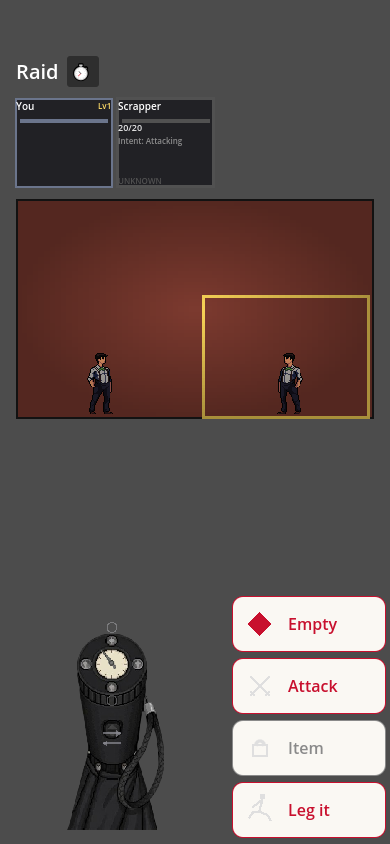
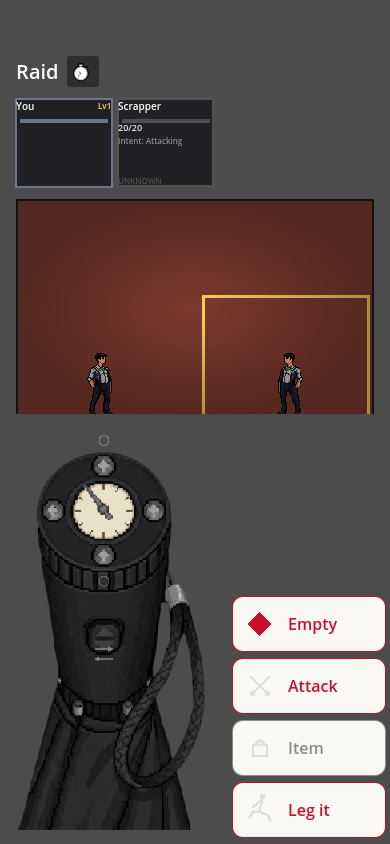
108: crop the Dial's blank native margin to grow the render and free action-deck width
The Dial's 500x500 source PNG is more than half blank transparent margin
(measured via a Pillow alpha-bbox scan: content only spans native
x:[141,377]). Cropping the rendered AtlasTexture to just that content lets
HANDLE_DISPLAY_SIZE grow to 400.0 (device renders ~1.92x its old size) while
the widget's own column width lands back at its pre-ticket 224px, so the
action deck beside it keeps its full original width and captions instead of
being squeezed for room. combat.gd's COMMAND_DOCK_HEIGHT now derives from
DialWidget.WIDGET_SIZE.y instead of a hand-picked flat number, closing the
~215px dead gap between the stage and the Dial down to ~23px with no overlap
(verified via scripts/debug_combat_dial_screenshot.gd's real render).

Claude-Session: https://claude.ai/code/session_01TjiyxV4wG392SCAdhfaZQ3

Changed region(s): [[0.0308, 0.4929, 0.9538, 0.9858]]

diff --git a/CODEMAP.md b/CODEMAP.md
@@ -76,7 +76,7 @@ Generated index of what lives where. Update this alongside any file you add/remo
 
 | File | Renders |
 |---|---|
-| combat.gd | Combat screen (turn UI over systems/combat.gd); stage backdrop reads combat_visuals.json (image or palette.json fallback fill) per combat context; StageSlot idle animation and attack (3 keyposes)/hit (1 pose)/ko (2 poses) one-shots all read combat_visuals.json's per-subject templates.<key> entries (key resolved by CombatScreen.enemy_template_key()/ally contactId/"player"), falling back to the shared templates.default stand-in (Gangsters_2-sourced) when a subject's own entry is empty -- the ticket-01 placeholder box is now a defensive-only fallback, not expected in normal play; attack/hit/ko each play via a transform tween (lunge/recoil/fall+fade) between keyposes, not a flipbook; Archie's self-patch pose and prophetsBreath's ghost-next-pose effect (§5) are wired the same way, both still art-deferred (no default fallback for either). Ticket 11: beats carrying an `effectKey` extra field (systems/combat.gd's use_*()/cast_complication() branches, keyed by consumable id) play combat_visuals.json's `effects.<key>` sheet (art-deferred, empty today) via StageSlot.play_effect_sheet()/set_shield_loop(); art-independent flourishes ride alongside regardless of art status -- StageSlot.spawn_afterimage() (enhancementPowder, per rapid attack beat while motionTurns>0), play_wormhole_vanish() (fold-and-fade transform), set_frozen_visual()/set_time_scale() (timePearl desaturate + 10% idle speed, re-synced from combat.frozenTurns every _sync_stage()), flash_shield_crack() (shieldAbsorbed beat field). EventBus.combat_beats_played/combat_rewind_played bridge the direct bag-item use_*() path (bag_drawer.gd, a global overlay with no direct handoff to this screen) and combat_rewind()'s reverse-beat replay (_on_rewind_beat_played(), a trimmed pose/flash/shake-only playback -- no log-reveal or ghost-drain) back into this screen's own CombatDirector. Ticket 18 (human direction, 2026-09-09): STAGE_HEIGHT shrunk 360→220 to free room for a command-deck furniture row. field-kit-chrome ticket 05: `_build_action_card()`'s Attack/Item/Run blocks drop the default theme Button's amber fill (main_theme.tres -- reserved for calc/cash reads only) for `ui_action_red` (`GameData.PALETTE`, same lookup+fallback pattern as `nav_bar.gd`), a rendering swap only -- no new component, no handler/layout change. ui-chrome-pass ticket 03 (human direction, 2026-09-11, revised repeatedly same day after on-review/screenshot follow-ups -- see `.scratch/ui-chrome-pass/issues/03-combat-dial-bottom-anchored-rework_COMPLETED.md`'s own git history for the discarded intermediate passes): the whole command deck (Dial + Complication card + Attack/Item/Leg it) lives in `_command_dock`, a fixed `HBoxContainer` OUTSIDE `_content`'s ScrollContainer/margin flow entirely -- added as a later sibling of the ScrollContainer in `_ready()` (paints on top, checked first for input; layout Containers here all use `MOUSE_FILTER_PASS`, only leaf controls STOP, so this doesn't block anything in `_content` underneath -- see `_ready()`'s own comment). Anchored to the screen's own bottom-left corner (`COMMAND_DOCK_LEFT_MARGIN`/`RIGHT_MARGIN`/`BOTTOM_MARGIN`/`HEIGHT` consts) rather than `_content`'s 358px margin-inset column, which is what actually lets the Dial render at a real "large prop" size (`dial_widget.gd`'s `HANDLE_DISPLAY_SIZE`) -- sharing that narrower column with the action deck (tried first) capped it as low as 118px. `_build_command_deck()` is now a side-effect-only call (rebuilds `_command_dock` via `_build_dial_and_actions_row()`); `_footer_holder` carries nothing during a live fight. The Complication card docks as the TOP bar of the action stack itself now (`_build_action_deck()`), in the same size/format as Attack/Item/Leg it (`_build_card_bar()`, shared between it and `_build_action_card()`) -- an icon (its own recipe symbol via a `SymbolGlyph`, not a Button, since these ~19 recipe symbols aren't covered by `ThemeDB.fallback_font`) plus a truncated-with-ellipsis "name — tier N" caption (autowrap OFF: wrapping a long recipe name was tried first and blew the stack's own height budget the same way an uncapped caption width blew the row's width budget). The Dial (`SIZE_SHRINK_END`) and the action stack (`SIZE_SHRINK_END`) both bottom-align within `_command_dock` so they share one visual "shelf" at the dock's bottom edge regardless of which is taller that round. Verified against a real (non-headless) render via `scripts/debug_combat_dial_screenshot.gd` at every revision, not just hand-measured; ART-REVIEW still covers the Dial's own screw/switch hit-region consts (dial_widget.gd) and the exact `COMMAND_DOCK_*`/`HANDLE_DISPLAY_SIZE` pixel values. |
+| combat.gd | Combat screen (turn UI over systems/combat.gd); stage backdrop reads combat_visuals.json (image or palette.json fallback fill) per combat context; StageSlot idle animation and attack (3 keyposes)/hit (1 pose)/ko (2 poses) one-shots all read combat_visuals.json's per-subject templates.<key> entries (key resolved by CombatScreen.enemy_template_key()/ally contactId/"player"), falling back to the shared templates.default stand-in (Gangsters_2-sourced) when a subject's own entry is empty -- the ticket-01 placeholder box is now a defensive-only fallback, not expected in normal play; attack/hit/ko each play via a transform tween (lunge/recoil/fall+fade) between keyposes, not a flipbook; Archie's self-patch pose and prophetsBreath's ghost-next-pose effect (§5) are wired the same way, both still art-deferred (no default fallback for either). Ticket 11: beats carrying an `effectKey` extra field (systems/combat.gd's use_*()/cast_complication() branches, keyed by consumable id) play combat_visuals.json's `effects.<key>` sheet (art-deferred, empty today) via StageSlot.play_effect_sheet()/set_shield_loop(); art-independent flourishes ride alongside regardless of art status -- StageSlot.spawn_afterimage() (enhancementPowder, per rapid attack beat while motionTurns>0), play_wormhole_vanish() (fold-and-fade transform), set_frozen_visual()/set_time_scale() (timePearl desaturate + 10% idle speed, re-synced from combat.frozenTurns every _sync_stage()), flash_shield_crack() (shieldAbsorbed beat field). EventBus.combat_beats_played/combat_rewind_played bridge the direct bag-item use_*() path (bag_drawer.gd, a global overlay with no direct handoff to this screen) and combat_rewind()'s reverse-beat replay (_on_rewind_beat_played(), a trimmed pose/flash/shake-only playback -- no log-reveal or ghost-drain) back into this screen's own CombatDirector. Ticket 18 (human direction, 2026-09-09): STAGE_HEIGHT shrunk 360→220 to free room for a command-deck furniture row. field-kit-chrome ticket 05: `_build_action_card()`'s Attack/Item/Run blocks drop the default theme Button's amber fill (main_theme.tres -- reserved for calc/cash reads only) for `ui_action_red` (`GameData.PALETTE`, same lookup+fallback pattern as `nav_bar.gd`), a rendering swap only -- no new component, no handler/layout change. ui-chrome-pass ticket 03 (human direction, 2026-09-11, revised repeatedly same day after on-review/screenshot follow-ups -- see `.scratch/ui-chrome-pass/issues/03-combat-dial-bottom-anchored-rework_COMPLETED.md`'s own git history for the discarded intermediate passes): the whole command deck (Dial + Complication card + Attack/Item/Leg it) lives in `_command_dock`, a fixed `HBoxContainer` OUTSIDE `_content`'s ScrollContainer/margin flow entirely -- added as a later sibling of the ScrollContainer in `_ready()` (paints on top, checked first for input; layout Containers here all use `MOUSE_FILTER_PASS`, only leaf controls STOP, so this doesn't block anything in `_content` underneath -- see `_ready()`'s own comment). Anchored to the screen's own bottom-left corner (`COMMAND_DOCK_LEFT_MARGIN`/`RIGHT_MARGIN`/`BOTTOM_MARGIN`/`HEIGHT` consts) rather than `_content`'s 358px margin-inset column, which is what actually lets the Dial render at a real "large prop" size (`dial_widget.gd`'s `HANDLE_DISPLAY_SIZE`) -- sharing that narrower column with the action deck (tried first) capped it as low as 118px. `_build_command_deck()` is now a side-effect-only call (rebuilds `_command_dock` via `_build_dial_and_actions_row()`); `_footer_holder` carries nothing during a live fight. The Complication card docks as the TOP bar of the action stack itself now (`_build_action_deck()`), in the same size/format as Attack/Item/Leg it (`_build_card_bar()`, shared between it and `_build_action_card()`) -- an icon (its own recipe symbol via a `SymbolGlyph`, not a Button, since these ~19 recipe symbols aren't covered by `ThemeDB.fallback_font`) plus a truncated-with-ellipsis "name — tier N" caption (autowrap OFF: wrapping a long recipe name was tried first and blew the stack's own height budget the same way an uncapped caption width blew the row's width budget). The Dial (`SIZE_SHRINK_END`) and the action stack (`SIZE_SHRINK_END`) both bottom-align within `_command_dock` so they share one visual "shelf" at the dock's bottom edge regardless of which is taller that round. Verified against a real (non-headless) render via `scripts/debug_combat_dial_screenshot.gd` at every revision, not just hand-measured; ART-REVIEW still covers the Dial's own screw/switch hit-region consts (dial_widget.gd) and the exact `COMMAND_DOCK_*`/`HANDLE_DISPLAY_SIZE` pixel values. ticket 108 (2026-09-13): `COMMAND_DOCK_HEIGHT` is now `DialWidget.WIDGET_SIZE.y` (derived, not a hand-picked flat number) -- the old flat value was taller than either column actually needed, and since `_content`'s ScrollContainer reserves `COMMAND_DOCK_HEIGHT + BOTTOM_MARGIN` of screen space regardless of what's drawn in the dock, that slack read on-screen as dead space between the stage and the Dial; deriving it keeps the two in lockstep as `dial_widget.gd`'s sizing changes again. |
 | contacts.gd | Contacts tab, flag-gated actions. 08-family-2-chrome-contacts: paints its own Family 2 "device shell" background panel (`phone_bg_content`) and, once `_refresh()` has built every card, runs `ContactCards.apply_phone_os_chrome(_content)` over the whole thing |
 | event.gd | Generic event-card screen driven by state.event. ui-vision.md §11: recoloured into the shared palette (tension border -> `MapStyle.DANGER_COLOUR`, craft panel -> `calc_gold`/`calc_gold_light`, action bar -> `ui_action_red`, no more private AMBER_COLOR/AMBER_BG/DANGER_COLOR consts); gained a persistent, non-scrolling image slot (`_image_frame`/`_image_texture`) between the top bar and the card stack, derived each `_refresh()` from the last revealed card that specifies an `image` key (sticky, Rewind-safe, no new state). event-images ticket 02: `_ready()` branches on `Events.is_vn_mode()`, decided once and never revisited — VN-mode events build a completely separate full-bleed `_vn_frame`/`_vn_texture`/`_vn_card_box` (full width, `top_bar_clearance()` to the safe-area inset, single overlay text box replaced each refresh with `revealed_cards().back()`, styled via the same `_style_card()` as the non-VN stack) instead of `_image_frame`/`_scroll`/`_cards_box`. event-images ticket 03: the shared bottom action bar (`_action_bar`) is now non-VN-only — it's never built for a VN-mode screen (stays `null`), since Continue/Rewind/choice dock onto the VN card itself via `_build_vn_controls_row()` (Rewind left, a bare "→" arrow glyph right-aligned via a trailing spacer, or the choice buttons in place of the arrow while `Events.is_awaiting_choice()`), appended into the card's own content `VBoxContainer` |
 | factions.gd | Factions tab |
@@ -99,7 +99,7 @@ Generated index of what lives where. Update this alongside any file you add/remo
 | app_tile.gd | Icon+label+badge+lock tile used by the phone app grid. field-kit-chrome ticket 04: no longer shared with the dock — `nav_bar.gd` now builds its own dock-local tile chrome (Family 4's TfL-style strip vs. this component's Family 2 look). 09-family-2-chrome-phone-apps, ui-vision.md §10: the cream/tan frame is gone — a fallback-label tile gets a flat near-black chip (`phone_bg_home`, no border); a tile with real icon art suppresses its own background panel entirely (the art is expected to be a full, self-contained square). Fallback/name label text repainted `phone_text_primary`; badge dot aligned to the exact `ui_action_red` hex |
 | bag_drawer.gd | Global bottom-sheet bag drawer, openable from any screen |
 | contact_cards.gd | Shared Archie/James/faction contact-card builders. 08-family-2-chrome-contacts: also owns `apply_phone_os_chrome(root)`, a recursive repaint pass (card/bubble panel fill, button fill/outline, ProgressBar fill/track, label ink/muted/leave-tinted-alone colour, all via `GameData.PALETTE`'s `phone_os` group) that `contacts.gd` runs over its built screen tree. 09-family-2-chrome-phone-apps: `scenes/screens/phone.gd` reuses the same function over every app it builds (Notes/Factions/Ticker/Profile/Save-Load/Notifications/Reynard's/Harrow's/Messages) — extended this ticket with ProgressBar handling, a message-bubble special case (outgoing `ui_action_red` vs. incoming `phone_bubble_incoming`), and a colour-value (not just has-override) label heuristic so a deliberately tinted label (e.g. a calc_gold £ figure) survives the pass. Deliberately not wired into `build_faction_card()` below, which still serves the untouched (cream) standalone `factions.gd` screen — phone.gd's own `_build_factions()` reaches the same builder through a separately Family-2-painted tree, so this doesn't leak between the two |
-| dial_widget.gd | Combat's in-fight Dial-casting widget, docked left of `scenes/screens/combat.gd`'s action stack inside that screen's `_command_dock` (see that file's own CODEMAP entry). combat-presentation ticket 18: renders the real `assets/hq/dial/dial_device_base.png` umbrella-handle prop (reused verbatim from `hq_dial.gd`'s loadout screen, not separate art), plus a charge-reserve needle. Interaction is direct tap, not the old rotate/press-anywhere gesture: `handle_select(index)` fires when one of the 4 screws ringing the clock face is tapped (one per loaded Complication, `MAX_DOTS`-capped same as `hq_dial.gd`'s flanking sockets), `handle_trigger()` fires only from a dedicated hit-region over the oval switch below the grip (a drawn "⇄" glyph overlaid there, since the art has no icon baked in). Renders whenever the player has a seeded Dial at all (even empty) — CombatScreen only omits the node entirely when there's no Dial. ui-chrome-pass ticket 03 (2026-09-11): `WIDGET_SIZE` (renamed from `VISIBLE_BOX_SIZE`) is now sized to fully contain the rendered art (`HANDLE_DISPLAY_SIZE` + `WIDGET_PADDING`/`TOP_PADDING`) instead of cropping it down to a small window -- the confirmed-by-screenshot bug that ticket fixed; `TOP_PADDING` is asymmetric (bigger than the other 3 sides) so the topmost screw's own tap-rect doesn't poke out past the widget's top edge (code-review finding, 2026-09-11). `configure()`'s `size_flags_vertical` is `SIZE_SHRINK_END` (bottom-aligned within `_command_dock`, not top) so the art's own bottom edge stays flush with the dock's bottom regardless of how tall the action stack beside it is that round. Screw/button hit-region consts and `HANDLE_DISPLAY_SIZE` itself are still ART-REVIEW, not yet confirmed on-device (see the file's own top comment and `.scratch/combat-presentation/issues/18-umbrella-handle-tap-select_COMPLETED.md`) |
+| dial_widget.gd | Combat's in-fight Dial-casting widget, docked left of `scenes/screens/combat.gd`'s action stack inside that screen's `_command_dock` (see that file's own CODEMAP entry). combat-presentation ticket 18: renders the real `assets/hq/dial/dial_device_base.png` umbrella-handle prop (reused verbatim from `hq_dial.gd`'s loadout screen, not separate art), plus a charge-reserve needle. Interaction is direct tap, not the old rotate/press-anywhere gesture: `handle_select(index)` fires when one of the 4 screws ringing the clock face is tapped (one per loaded Complication, `MAX_DOTS`-capped same as `hq_dial.gd`'s flanking sockets), `handle_trigger()` fires only from a dedicated hit-region over the oval switch below the grip (a drawn "⇄" glyph overlaid there, since the art has no icon baked in). Renders whenever the player has a seeded Dial at all (even empty) — CombatScreen only omits the node entirely when there's no Dial. ui-chrome-pass ticket 03 (2026-09-11): `WIDGET_SIZE` (renamed from `VISIBLE_BOX_SIZE`) is now sized to fully contain the rendered art (`HANDLE_DISPLAY_SIZE` + `WIDGET_PADDING`/`TOP_PADDING`) instead of cropping it down to a small window -- the confirmed-by-screenshot bug that ticket fixed; `TOP_PADDING` is asymmetric (bigger than the other 3 sides) so the topmost screw's own tap-rect doesn't poke out past the widget's top edge (code-review finding, 2026-09-11). `configure()`'s `size_flags_vertical` is `SIZE_SHRINK_END` (bottom-aligned within `_command_dock`, not top) so the art's own bottom edge stays flush with the dock's bottom regardless of how tall the action stack beside it is that round. Screw/button hit-region consts and `HANDLE_DISPLAY_SIZE` itself are still ART-REVIEW, not yet confirmed on-device (see the file's own top comment and `.scratch/combat-presentation/issues/18-umbrella-handle-tap-select_COMPLETED.md`). ticket 108 (2026-09-13): `HANDLE_DISPLAY_SIZE` no longer equals the widget's rendered width -- `_base_rect` now draws an `AtlasTexture` cropped to `CROP_NATIVE_X`/`CROP_NATIVE_WIDTH` (the source PNG's own blank native margin, more than half its 500px width, trimmed out), so `RENDERED_WIDTH` (`CROP_NATIVE_WIDTH * HANDLE_SCALE`) is the real on-screen width and what `WIDGET_SIZE.x` is sized against; `FACE_CENTER_NATIVE`/`BUTTON_CENTER_NATIVE` are shifted left by `CROP_NATIVE_X` to stay correct in the new cropped-local coordinate space (`DOT_OFFSETS_NATIVE` are relative deltas, unaffected). This is what let the rendered device grow to ~1.92x its pre-ticket size while the widget's own column width returned to its pre-ticket-108 value, freeing the action deck beside it back to its original (uncropped) width. |
 | dot_matrix_board.gd | field-kit-chrome ticket 02: shared electronic dot-matrix departure/platform board renderer (amber-on-black, custom `_draw()` against dot_matrix_font.gd's bitmap table, scramble-on-refresh transition). Bugfixes ticket 107: `top_bar.gd` is now the sole mounter, one instance, using `set_lines()`'s multi-line support directly — status line 0 plus the scrolling notification rows below it. (ui-chrome-pass ticket 02: `combat.gd`'s post-fight outcome-log consumer, `_build_log()`, is removed — the mid-fight ticker already covers that line-by-line) |
 | dot_matrix_font.gd | Hardcoded 5x7 bitmap font (A-Z/0-9/space/punctuation actually used by the status line + Notify.push() prose) backing dot_matrix_board.gd — same "engine can't render this, hand-draw it" precedent ore_glyphs.gd sets for ore symbols |
 | hq_diorama.gd | Renders one data/hq_visuals.json room-plate entry: background (image or palette.json fallback fill) + a labelled placeholder box per empty-image region + an optional debug overlay (every region rect + id). Pure renderer — region_rects() hands the caller (hq.gd) rects to do its own tap hit-testing; never touches GameState or does navigation itself |
